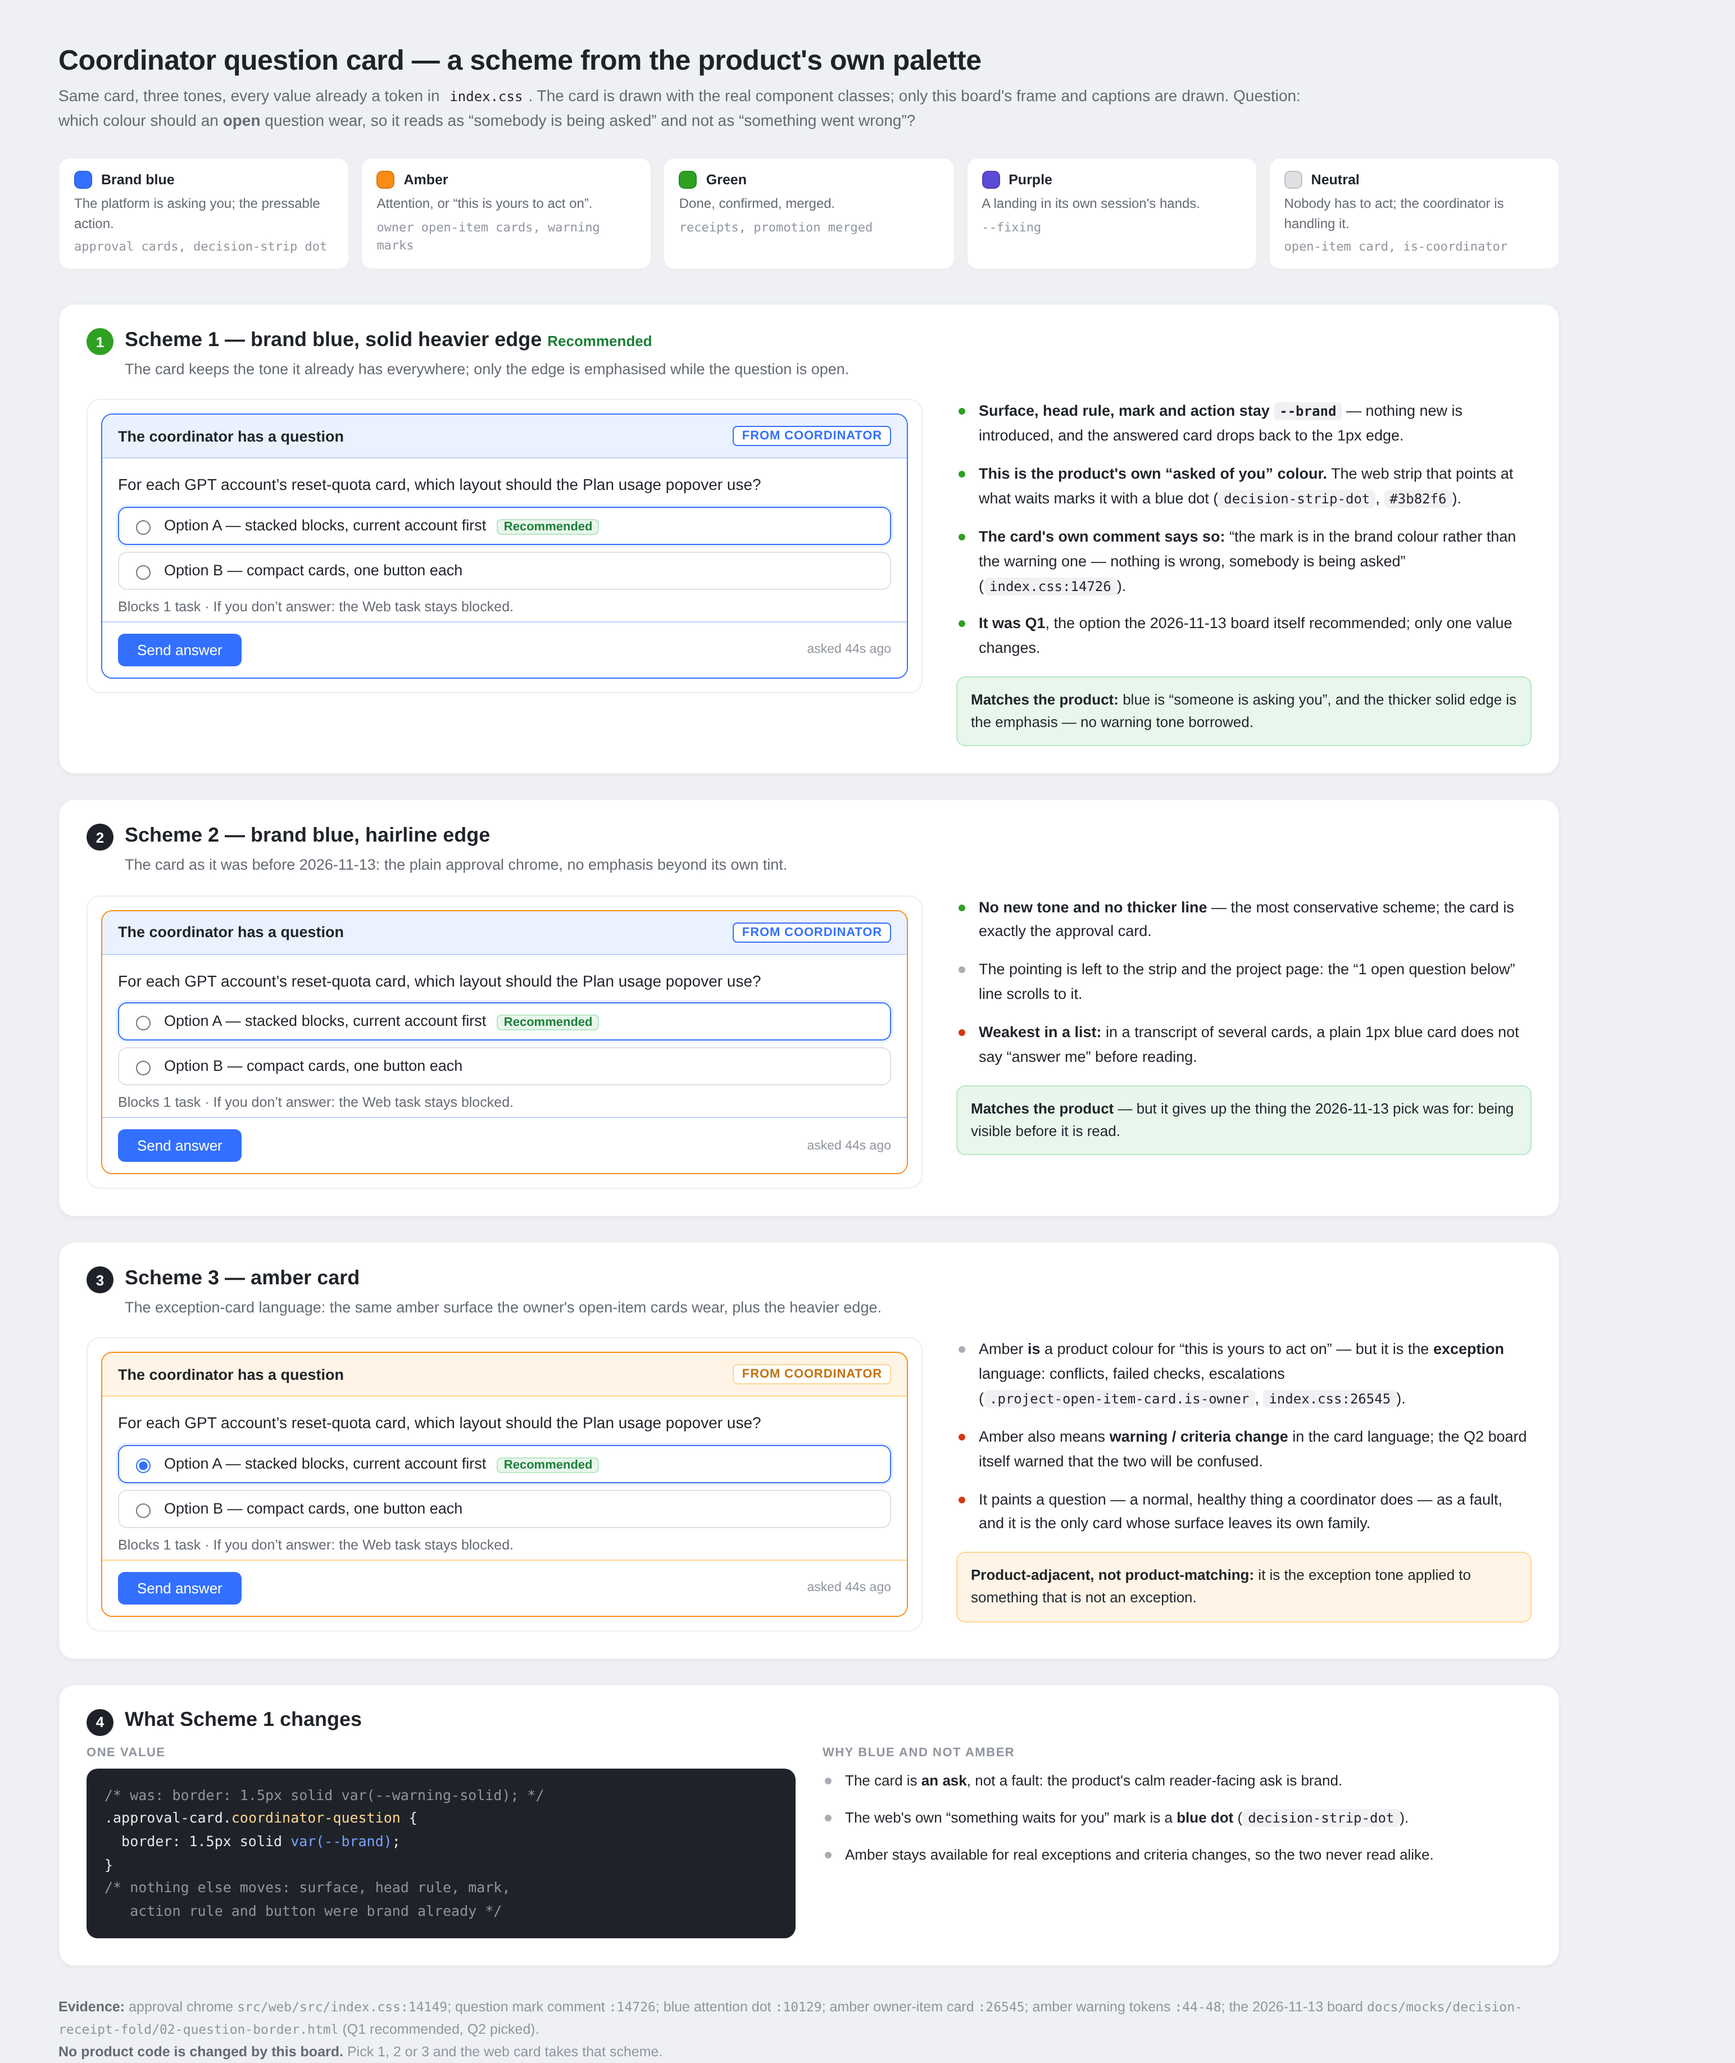
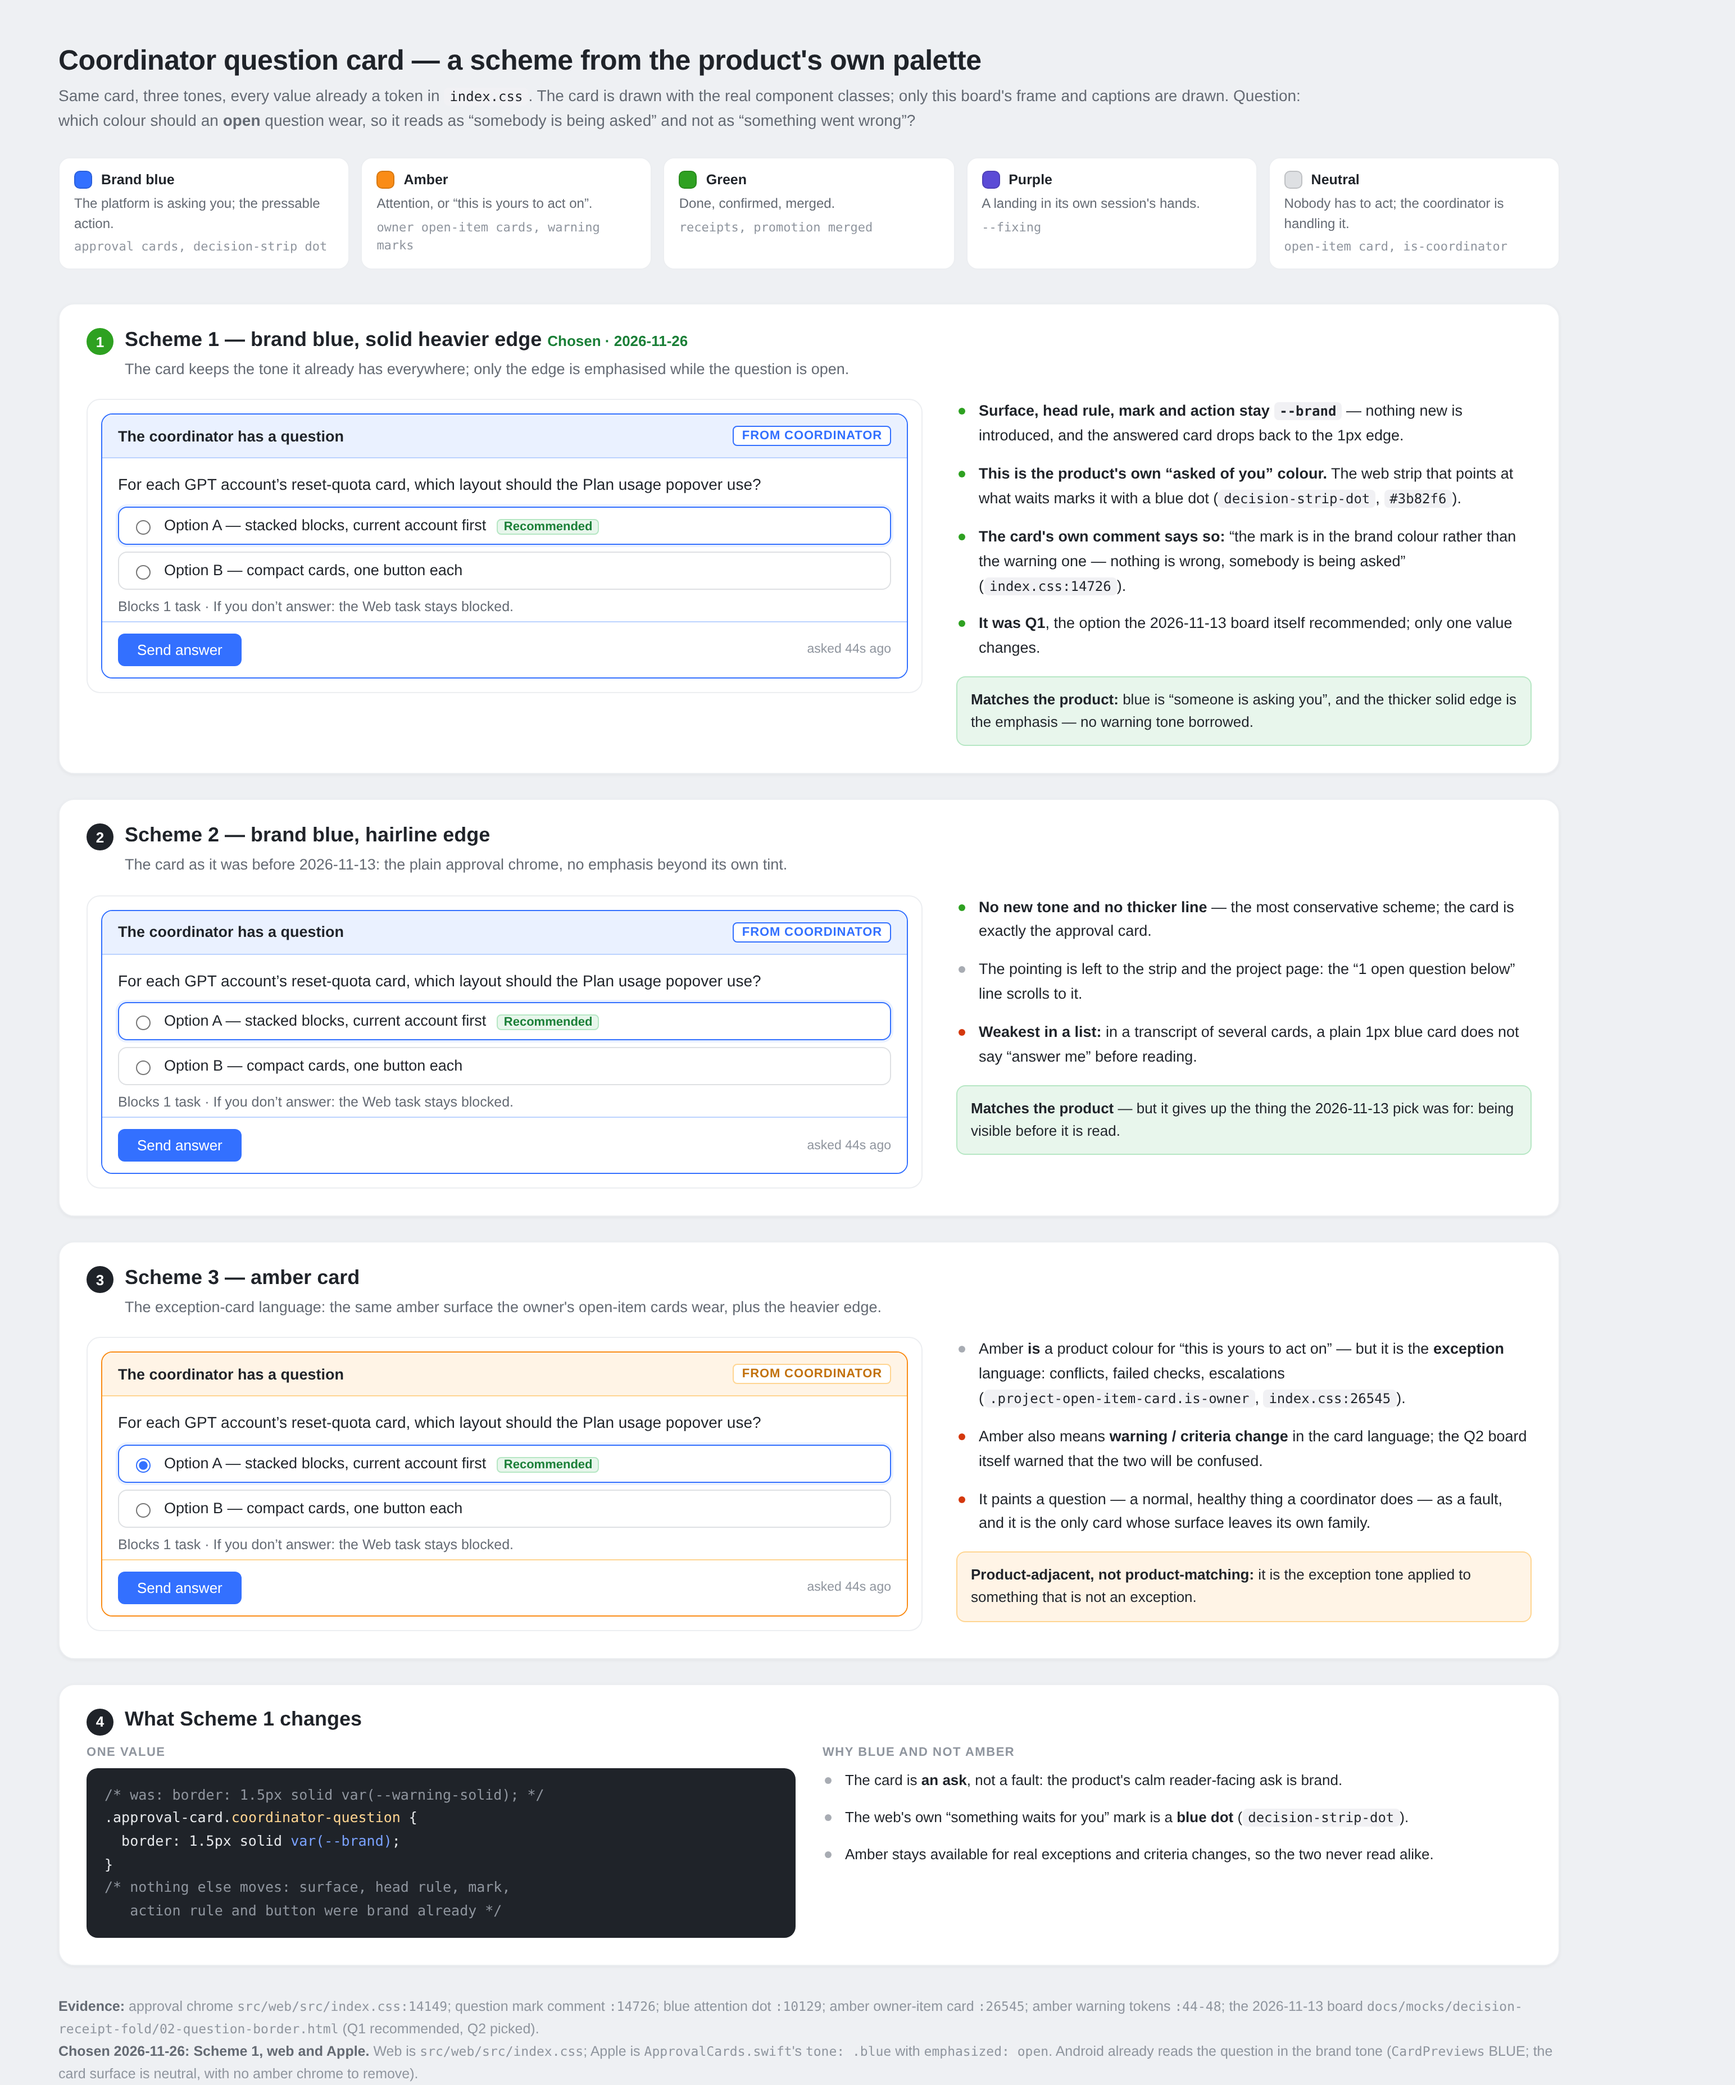
docs(mocks): record Scheme 1 as chosen; mark the amber board superseded
The question-border board measured the card before the change and recommended
the amber card; the owner picked the brand-blue scheme instead, so the board
now says so and its amber panel is labelled Not taken.

diff --git a/docs/mocks/coordinator-question-border/board.html b/docs/mocks/coordinator-question-border/board.html
@@ -17,6 +17,12 @@
   h1 { margin: 0 0 6px; font-size: 25px; letter-spacing: -0.01em; }
   .sub { margin: 0 0 22px; max-width: 1120px; color: var(--text-2); font-size: 14px; line-height: 1.55; }
 
+  .superseded { margin: 0 0 22px; padding: 10px 14px; max-width: 1120px; border: 1px solid var(--border);
+    border-radius: 8px; background: #fff; color: var(--text-2); font-size: 13px; line-height: 1.55; }
+  .superseded b { color: var(--text-1); }
+  .superseded .token { font-family: ui-monospace, SFMono-Regular, Menlo, monospace; font-size: 12px;
+    padding: 1px 5px; border-radius: 4px; background: var(--fill-muted); color: var(--text-1); }
+
   .facts { display: flex; flex-wrap: wrap; gap: 8px; margin: 0 0 30px; }
   .fact { display: flex; align-items: center; gap: 8px; padding: 7px 12px; border-radius: 8px;
     background: #fff; border: 1px solid var(--border-subtle); font-size: 12.5px; }
@@ -101,6 +107,10 @@
   GPT-account reset-quota one this card was last seen asking.
 </p>
 
+<p class="superseded"><b>Superseded 2026-11-26.</b> The owner picked the brand-blue scheme
+  (<span class="token">02-schemes.html</span>, Scheme 1). The amber card below is not what shipped; the facts and the card
+  were measured before the change, and this board stays as the conformance check that led there.</p>
+
 <div class="facts">
   <span class="fact"><span class="sw" style="background:#fa8c16"></span><span class="k">edge</span><span class="v">1.5px solid #fa8c16</span><span class="k">--warning-solid</span></span>
   <span class="fact"><span class="sw" style="background:#eaf1ff"></span><span class="k">surface</span><span class="v">#eaf1ff</span><span class="k">--brand-tint</span></span>
@@ -130,7 +140,7 @@
 
 <!-- ② ─────────────────────────────────────────────────────────────────────────────── -->
 <section class="panel">
-  <div class="panel-head"><span class="num rec">A</span><h2>Redesign A — the whole card is amber <span style="color:var(--success);font-size:13px;font-weight:650">Recommended</span></h2></div>
+  <div class="panel-head"><span class="num">A</span><h2>Redesign A — the whole card is amber <span style="color:var(--text-3);font-size:13px;font-weight:650">Not taken</span></h2></div>
   <p class="cap">Keep the owner's heavier edge; give it a card that agrees with it. This is the same chrome the owner's open-item card already wears.</p>
   <div class="panel-body">
     <div class="stage is-amber" id="stage-amber"></div>

diff --git a/docs/mocks/coordinator-question-border/02-schemes.html b/docs/mocks/coordinator-question-border/02-schemes.html
@@ -126,7 +126,7 @@
 
 <!-- ① ─────────────────────────────────────────────────────────────────────────────── -->
 <section class="panel">
-  <div class="panel-head"><span class="num rec">1</span><h2>Scheme 1 — brand blue, solid heavier edge <span style="color:var(--success);font-size:13px;font-weight:650">Recommended</span></h2></div>
+  <div class="panel-head"><span class="num rec">1</span><h2>Scheme 1 — brand blue, solid heavier edge <span style="color:var(--success);font-size:13px;font-weight:650">Chosen · 2026-11-26</span></h2></div>
   <p class="cap">The card keeps the tone it already has everywhere; only the edge is emphasised while the question is open.</p>
   <div class="panel-body">
     <div class="stage scheme-blue" id="stage-one"></div>
@@ -204,7 +204,9 @@
   <b>Evidence:</b> approval chrome <code>src/web/src/index.css:14149</code>; question mark comment <code>:14726</code>;
   blue attention dot <code>:10129</code>; amber owner-item card <code>:26545</code>; amber warning tokens <code>:44-48</code>;
   the 2026-11-13 board <code>docs/mocks/decision-receipt-fold/02-question-border.html</code> (Q1 recommended, Q2 picked).<br>
-  <b>No product code is changed by this board.</b> Pick 1, 2 or 3 and the web card takes that scheme.
+  <b>Chosen 2026-11-26: Scheme 1, web and Apple.</b> Web is <code>src/web/src/index.css</code>; Apple is
+  <code>ApprovalCards.swift</code>'s <code>tone: .blue</code> with <code>emphasized: open</code>. Android already reads the question in
+  the brand tone (<code>CardPreviews</code> BLUE; the card surface is neutral, with no amber chrome to remove).
 </p>
 
 <template id="card-tpl">
